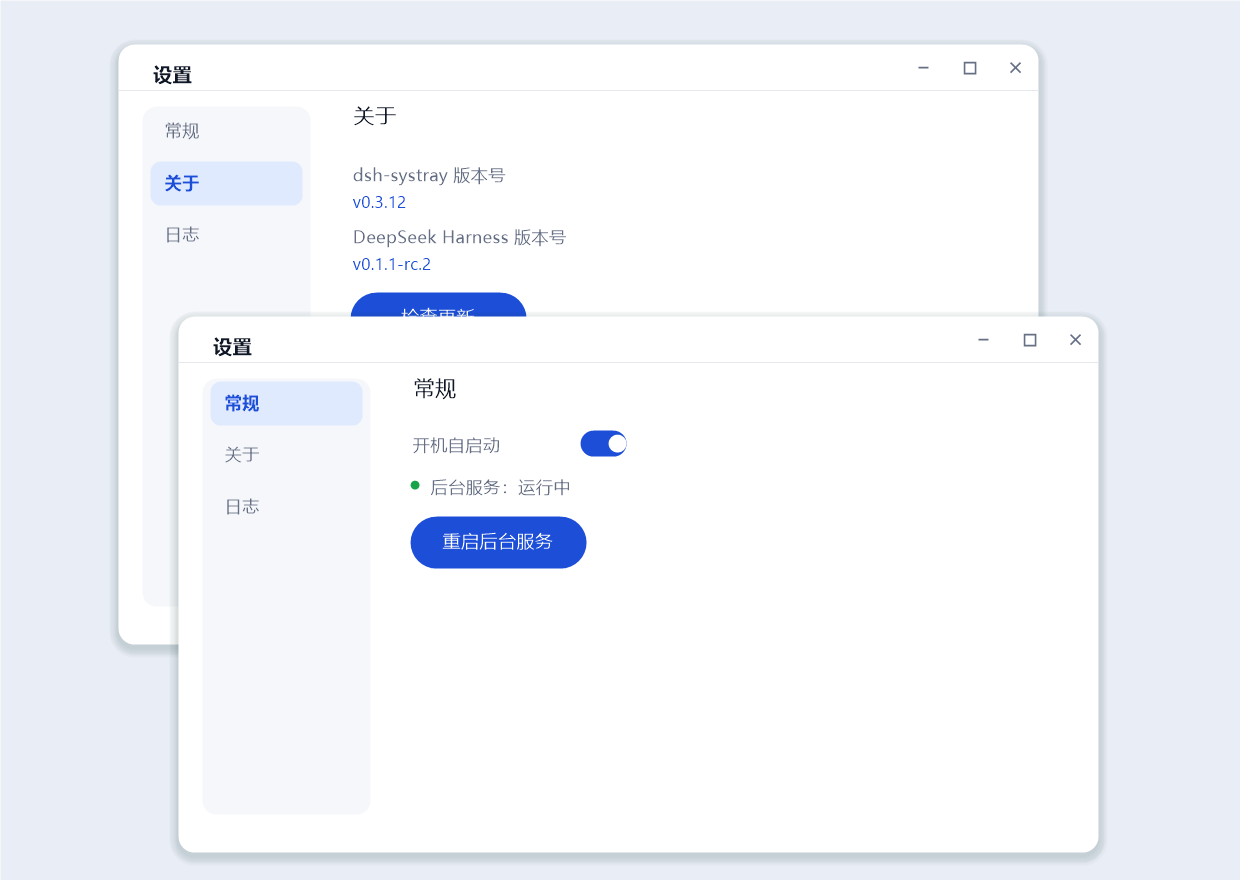
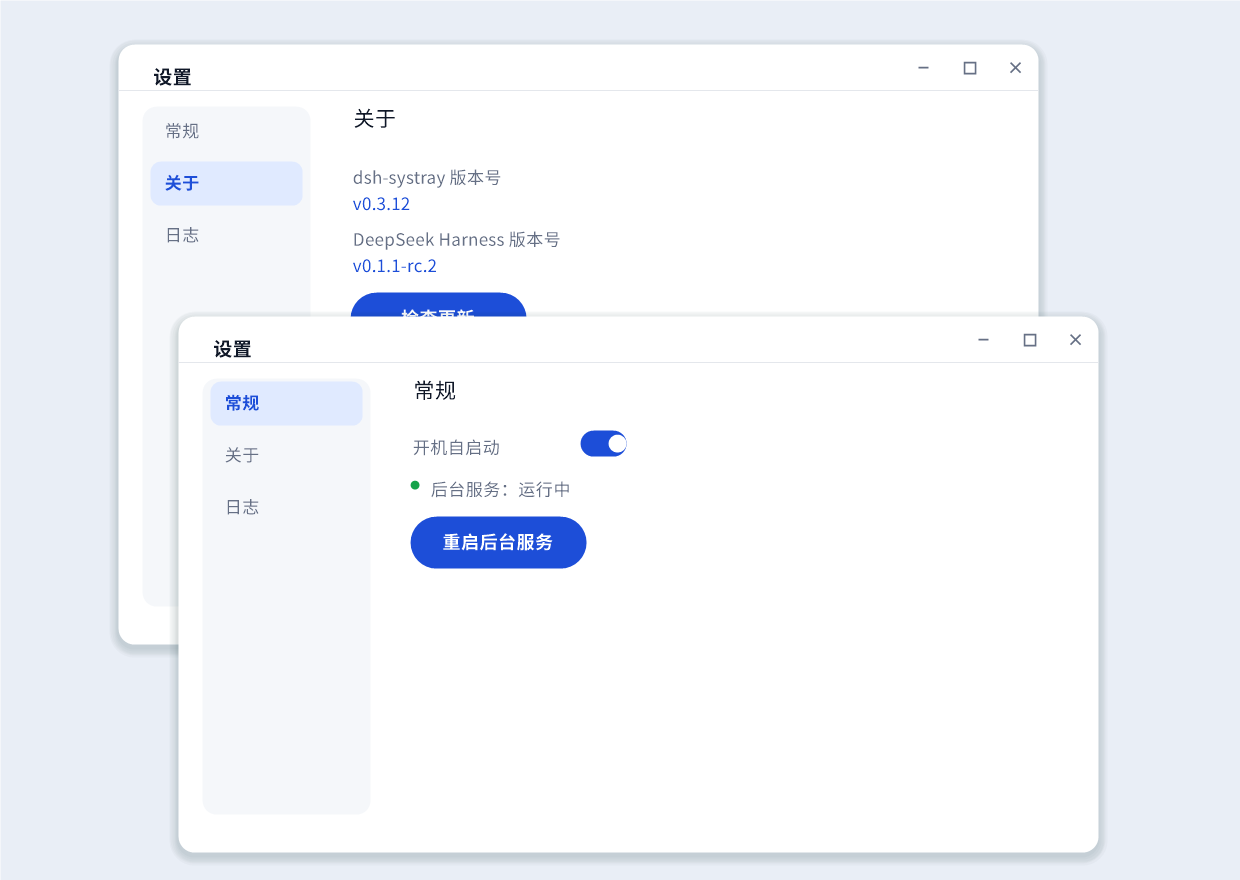
docs(ui/site): 截图与网站配图更新为 Noto Sans SC 效果图，网站字体栈加入 'Noto Sans SC' 优先

diff --git a/docs/index.html b/docs/index.html
@@ -9,7 +9,7 @@
 :root{
   --bg:#f5f7fa; --surface:#ffffff; --text:#101828; --muted:#667085;
   --border:#e4e7ec; --primary:#1d4ed8; --primary-deep:#1e40af; --soft:#e0eaff;
-  --rad:16px; --shadow:0 8px 24px rgba(16,24,40,.06); --font:-apple-system,BlinkMacSystemFont,'Segoe UI','Microsoft YaHei UI','PingFang SC',sans-serif;
+  --rad:16px; --shadow:0 8px 24px rgba(16,24,40,.06); --font:'Noto Sans SC',-apple-system,BlinkMacSystemFont,'Segoe UI','Microsoft YaHei UI','PingFang SC',sans-serif;
 }
 *{box-sizing:border-box}
 html{scroll-behavior:smooth}
